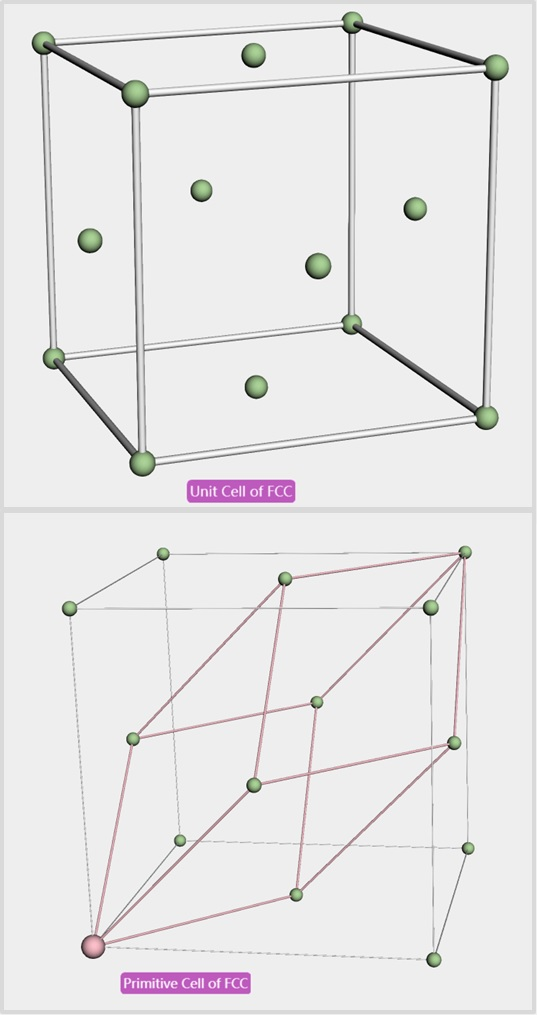
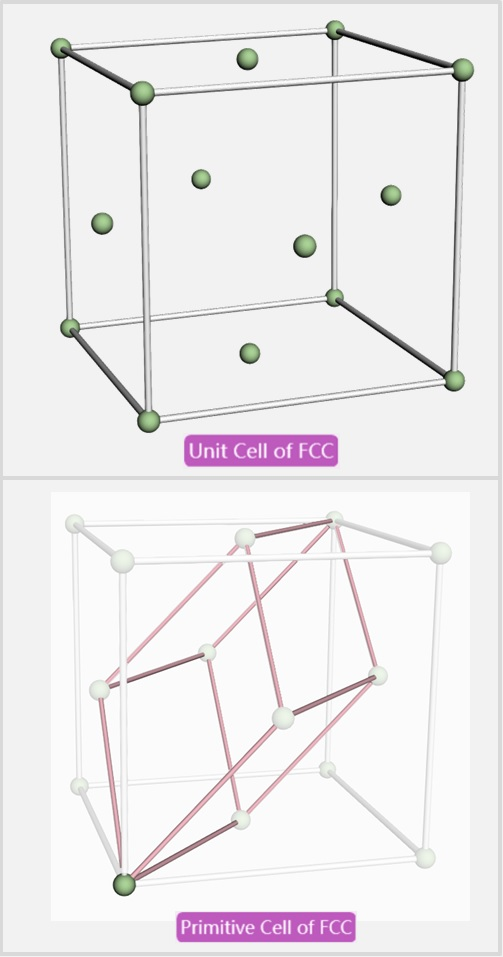
updated FCC structure

diff --git a/01_pdb_fcc_primitive_cell.html b/01_pdb_fcc_primitive_cell.html
@@ -11,7 +11,7 @@
 <meta http-equiv="Content-Language" content="zh-cn">
 <meta http-equiv="Content-Type" content="text/html; charset=gb2312">
 <meta charset="UTF-8">
-<title>Crystal Structure in Solid State Physics with 3Dmol.js</title>
+<title>FCC Crystal Structure in Solid State Physics with 3Dmol.js</title>
 <script src="https://3Dmol.org/build/3Dmol-min.js"></script>
 </head>
 
@@ -173,19 +173,19 @@
 //atom9-12, 9-13, 9-1
           viewer.addCylinder({start:{x: 0.9260, y: 3.8560, z:-0.3520},
                               end:{x: 4.1810, y: 2.9535, z:-2.4748},
-                              radius:0.02,
+                              radius:0.05,
                               color:'pink',
                               fromCap:false,
                               toCap:false});	
           viewer.addCylinder({start:{x: 0.9260, y: 3.8560, z:-0.3520},
                               end:{x: 3.6110, y: 1.2860, z: 1.0760},
-                              radius:0.02,
+                              radius:0.05,
                               color:'pink',
                               fromCap:false,
                               toCap:false});		
           viewer.addCylinder({start:{x: 0.9260, y: 3.8560, z:-0.3520},
                               end:{x:-2.6480, y: 2.5700, z:-1.4280},
-                              radius:0.02,
+                              radius:0.05,
                               color:'pink',
                               fromCap:false,
                               toCap:false});	
@@ -193,19 +193,19 @@
 //atom10-7,10-11,10-14
           viewer.addCylinder({start:{x: 3.1880, y:-0.9650, z:-2.1800},
                               end:{x: 6.8650, y: 0.3835, z:-1.0468},
-                              radius:0.02,
+                              radius:0.05,
                               color:'pink',
                               fromCap:false,
                               toCap:false});
           viewer.addCylinder({start:{x: 3.1880, y:-0.9650, z:-2.1800},
                               end:{x: 0.0000, y: 0.0000, z: 0.0000},
-                              radius:0.02,
+                              radius:0.05,
                               color:'pink',
                               fromCap:false,
                               toCap:false});							  
           viewer.addCylinder({start:{x: 3.1880, y:-0.9650, z:-2.1800},
                               end:{x: 0.5040, y: 1.6050, z:-3.6080},
-                              radius:0.02,
+                              radius:0.05,
                               color:'pink',
                               fromCap:false,
                               toCap:false});
@@ -213,32 +213,32 @@
 //atom11-1,11-13
           viewer.addCylinder({start:{x: 0.0000, y: 0.0000, z: 0.0000},
                               end:{x:-2.6480, y: 2.5700, z:-1.4280},
-                              radius:0.02,
+                              radius:0.05,
                               color:'pink',
                               fromCap:false,
                               toCap:false});		
           viewer.addCylinder({start:{x: 0.0000, y: 0.0000, z: 0.0000},
                               end:{x: 3.6110, y: 1.2860, z: 1.0760},
-                              radius:0.02,
+                              radius:0.05,
                               color:'pink',
                               fromCap:false,
                               toCap:false});	
 //atom12-7,12-9,12-14
           viewer.addCylinder({start:{x: 4.1810, y: 2.9535, z:-2.4748},
                               end:{x: 6.8650, y: 0.3835, z:-1.0468},
-                              radius:0.02,
+                              radius:0.05,
                               color:'pink',
                               fromCap:false,
                               toCap:false});		
           viewer.addCylinder({start:{x: 4.1810, y: 2.9535, z:-2.4748},
                               end:{x: 0.9260, y: 3.8560, z:-0.3520},
-                              radius:0.02,
+                              radius:0.05,
                               color:'pink',
                               fromCap:false,
                               toCap:false});			
           viewer.addCylinder({start:{x: 4.1810, y: 2.9535, z:-2.4748},
                               end:{x: 0.5040, y: 1.6050, z:-3.6080},
-                              radius:0.02,
+                              radius:0.05,
                               color:'pink',
                               fromCap:false,
                               toCap:false});	
@@ -246,25 +246,25 @@
 //atom13-7,13-11
           viewer.addCylinder({start:{x: 3.6110, y: 1.2860, z: 1.0760},
                               end:{x: 6.8650, y: 0.3835, z:-1.0468},
-                              radius:0.02,
+                              radius:0.05,
                               color:'pink',
                               fromCap:false,
                               toCap:false});		
           viewer.addCylinder({start:{x: 3.6110, y: 1.2860, z: 1.0760},
                               end:{x: 0.0000, y: 0.0000, z: 0.0000},
-                              radius:0.02,
+                              radius:0.05,
                               color:'pink',
                               fromCap:false,
                               toCap:false});		
 //atom14-1
           viewer.addCylinder({start:{x: 0.5040, y: 1.6050, z:-3.6080},
                               end:{x:-2.6480, y: 2.5700, z:-1.4280},
-                              radius:0.02,
+                              radius:0.05,
                               color:'pink',
                               fromCap:false,
                               toCap:false});		
 							  
-viewer.addLabel("FCC", {position: {x: 3.6480, y:-3.5700, z: 2.4280}, backgroundColor: 0x800080, backgroundOpacity: 0.8});							  
+viewer.addLabel("FCC structure", {position: {x: -2.6040, y: 6.2045, z: 0.1812}, backgroundColor: 0x800080, backgroundOpacity: 0.8});							  
 					  
 viewer.render();
 //viewer.addLine({color:'red',start:{x:-1.644, y: 3.072, z:-1.454},end:{x:6.8650,y:0.3835,z: -1.0468}});
